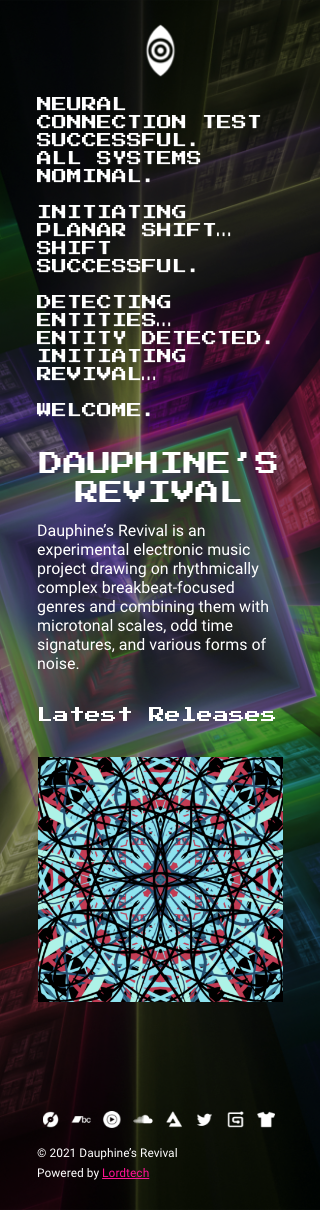
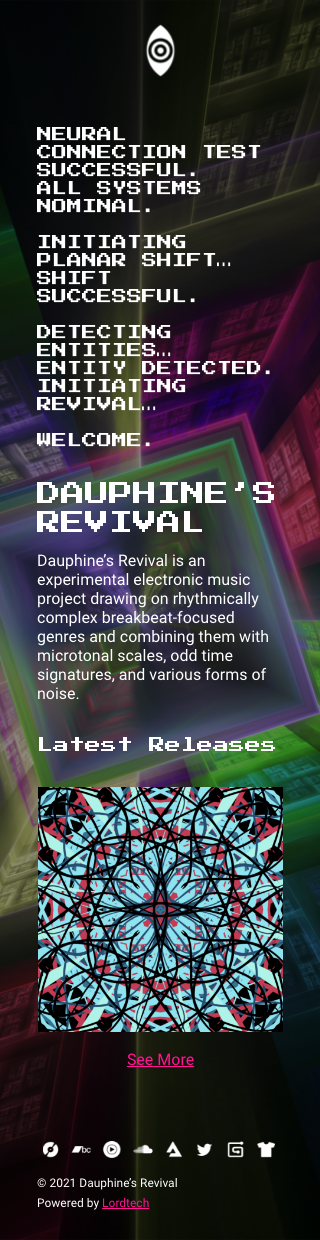
P2.6

diff --git a/P2/notes/index.html b/P2/notes/index.html
@@ -1,0 +1,26 @@
+<!DOCTYPE html>
+<html lang="en" dir="ltr">
+  <head>
+    <meta charset="utf-8">
+    <title>Project 2 Design Draft Notes</title>
+    <link rel="stylesheet" href="../css/main.css">
+  </head>
+  <body>
+    <h1>Project 2 Design Drafts</h1>
+    <h3>Iteration: P2.6</h3>
+
+    <h5>Notes</h5>
+    <ul>
+      <li>Pink text represents hyperlinks.</li>
+      <li>An exception to the above is the header navigation.</li>
+      <li>Previous iterations of the final 320 draft, "linksmenu320.png", appeared gray in previous submissions due to a lower opacity. It was intended that the links menu would slide out from a side of the window when the eye icon is clicked, while the current page would be just barely visible underneath. I've altered the opacity to 100% for better accuracy.</li>
+      <li>Album covers under "Latest Releases" are meant to be clickable images. Album title hover effects were not initially envisioned, nor was an image gallery. I felt the single album more appropriate for the mobile version. I've added a little "See More" link below the albums, but I haven't turned it into a gallery to preserve my initial vision. Unfortunately, I'm not entirely sure how to change the text content of a page with a media query, so I left "Latest Releases" unchanged even if switching to singular would be more appropriate for the 320 design.</li>
+      <li>The awkward use of only the three center columns was designed with the expectation that 1440 is oversized for a monitor. My own monitor is smaller than 1440 so I designed the initial drafts of the 1440 pages to crop comfortably to 1280px. I have adjusted the 1440 designs to take full advantage of my columns in the final draft as suggested, since a real project would probably just have me design an additional mockup for a new media query.</li>
+    </ul>
+
+    <p>Thanks for teaching this class, Michael! I had an absolute blast learning the material. I'm going to continue building my web development skills outside of school.</p>
+
+    <a href="../index.html">Return to Index</a>
+
+  </body>
+</html>

diff --git a/P2/index.html b/P2/index.html
@@ -2,24 +2,28 @@
 <html lang="en" dir="ltr">
   <head>
     <meta charset="utf-8">
-    <title>Dauphine's Revival</title>
+    <title>Project 2: Website Design</title>
     <link rel="stylesheet" href="css/main.css">
   </head>
   <body>
     <h1>Project 2: Website Design</h1>
 
-    <h2>320 Drafts</h2>
-    <img src="designs/home320.png"><br>
-    <img src="designs/about320.png"><br>
-    <img src="designs/music320.png"><br>
-    <img src="designs/tour320.png"><br>
-    <img src="designs/linksmenu320.png"><br>
+    <a href="notes/index.html">Visit the Notes Page</a> <br>
+    <a href="styleboard/index.html">Visit the Styleboard</a> <br>
+    <a href="wbg/index.html">View on a White Background</a>
 
-    <h2>1440 Drafts</h2>
-    <img src="designs/home1440.png"><br>
-    <img src="designs/about1440.png"><br>
-    <img src="designs/music1440.png"><br>
-    <img src="designs/tour1440.png"><br>
+    <h2 class="clear">320 Drafts</h2>
+    <img class="mobile" src="designs/home320.png">
+    <img class="mobile" src="designs/about320.png">
+    <img class="mobile" src="designs/music320.png">
+    <img class="mobile" src="designs/tour320.png">
+    <img class="mobile" src="designs/linksmenu320.png">
+
+    <h2 class="clear">1440 Drafts</h2>
+    <img class="desktop" src="designs/home1440.png">
+    <img class="desktop" src="designs/about1440.png">
+    <img class="desktop" src="designs/music1440.png">
+    <img class="desktop" src="designs/tour1440.png">
 
   </body>
 

diff --git a/P2/wbg/index.html b/P2/wbg/index.html
@@ -1,0 +1,29 @@
+<!DOCTYPE html>
+<html lang="en" dir="ltr">
+  <head>
+    <meta charset="utf-8">
+    <title>Project 2: White Background Preview</title>
+    <link rel="stylesheet" href="../css/main.css">
+  </head>
+  <body class="wbg">
+    <h1 class="wbg">Project 2: WBG Edition</h1>
+
+    <a class="wbg" href="../notes/index.html">Visit the Notes Page</a> <br>
+    <a class="wbg" href="../styleboard/index.html">Visit the Styleboard</a> <br>
+    <a class="wbg" href="../index.html">Return to Index</a>
+
+    <h2 class="wbg clear">320 Drafts</h2>
+    <img class="mobile" src="../designs/home320.png">
+    <img class="mobile" src="../designs/about320.png">
+    <img class="mobile" src="../designs/music320.png">
+    <img class="mobile" src="../designs/tour320.png">
+    <img class="mobile" src="../designs/linksmenu320.png">
+
+    <h2 class="wbg clear">1440 Drafts</h2>
+    <img class="desktop" src="../designs/home1440.png">
+    <img class="desktop" src="../designs/about1440.png">
+    <img class="desktop" src="../designs/music1440.png">
+    <img class="desktop" src="../designs/tour1440.png">
+
+  </body>
+</html>

diff --git a/P2/css/main.css b/P2/css/main.css
@@ -2,18 +2,21 @@ body{
   background-color: black;
   margin-left: 30px;
 }
-h1, h2, h3, h4, h5, h6, p{
+body.wbg{
+  background-color: white;
+}
+h1, h2, h3, h4, h5, h6, p, ul li{
   color: white;
+}
+.wbg{
+  color: black;
 }
 h1, h2, h3, h4, h5, h6{
   font-family: 'Press Start 2P', monospace;
 }
-p{
+p, ul li, a{
   font-size: 18px;
-  font-family: 'Roboto';
-}
-a{
-  font-family: 'Roboto', sans-serif;
+  font-family: 'Roboto', sans-sans-serif;
 }
 a:link{
   color: deeppink;
@@ -27,11 +30,21 @@ a:hover{
 a:visited{
   color: mediumvioletred;
 }
-
-/**
-Fonts
-
-VT323
-Nova Mono
-
-**/
+.mobile{
+  float: left;
+  margin-right: 10px;
+}
+.desktop{
+  margin-top: 10px;
+}
+.clear{
+  clear: both;
+}
+@media screen and (max-width: 1439px){
+  .mobile{
+    width: 19%;
+  }
+  .desktop{
+    width: 100%;
+  }
+}

diff --git a/P2/styleboard/index.html b/P2/styleboard/index.html
@@ -3,7 +3,7 @@
   <head>
     <meta charset="utf-8">
     <title>P2 Styleboard</title>
-    <link rel="stylesheet" href="css/main.css">
+    <link rel="stylesheet" href="../css/main.css">
     <link rel="preconnect" href="https://fonts.gstatic.com">
     <link href="https://fonts.googleapis.com/css2?family=Major+Mono+Display&family=Megrim&family=Press+Start+2P&family=Roboto:ital,wght@0,100;0,300;0,400;0,500;0,700;0,900;1,100;1,300;1,400;1,500;1,700;1,900&display=swap" rel="stylesheet">
   </head>
@@ -15,7 +15,8 @@
     <h5>Header 5</h5>
     <h6>Header 6</h6>
     <p>Paragraph</p>
-    <a href="index.html">Anchor Tag</a>
+    <p><a href="index.html">Anchor Tag</a></p>
 
+    <a href="../index.html">Return to Index</a>
   </body>
 </html>
